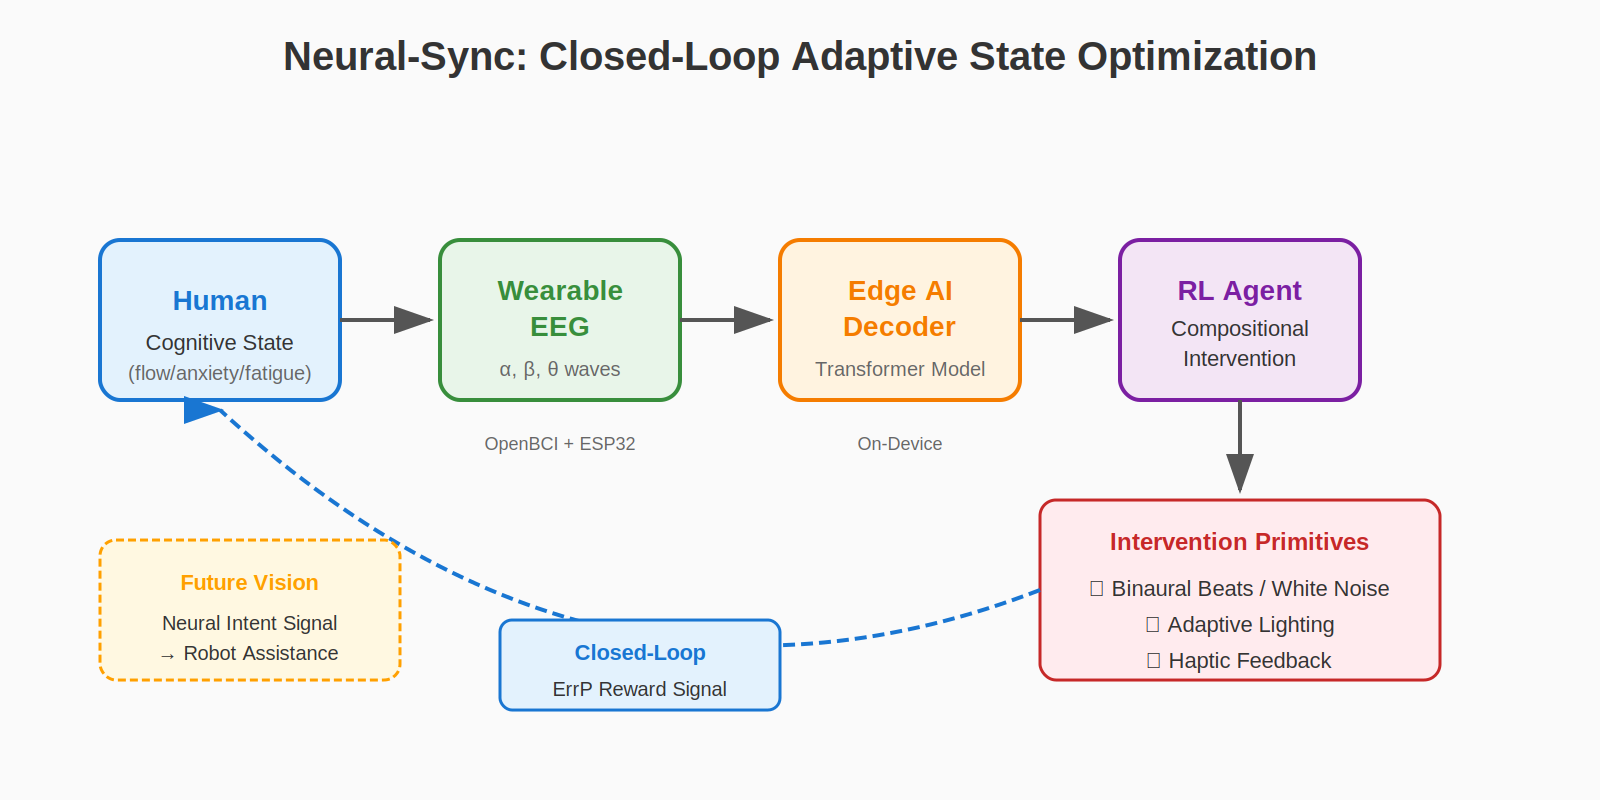
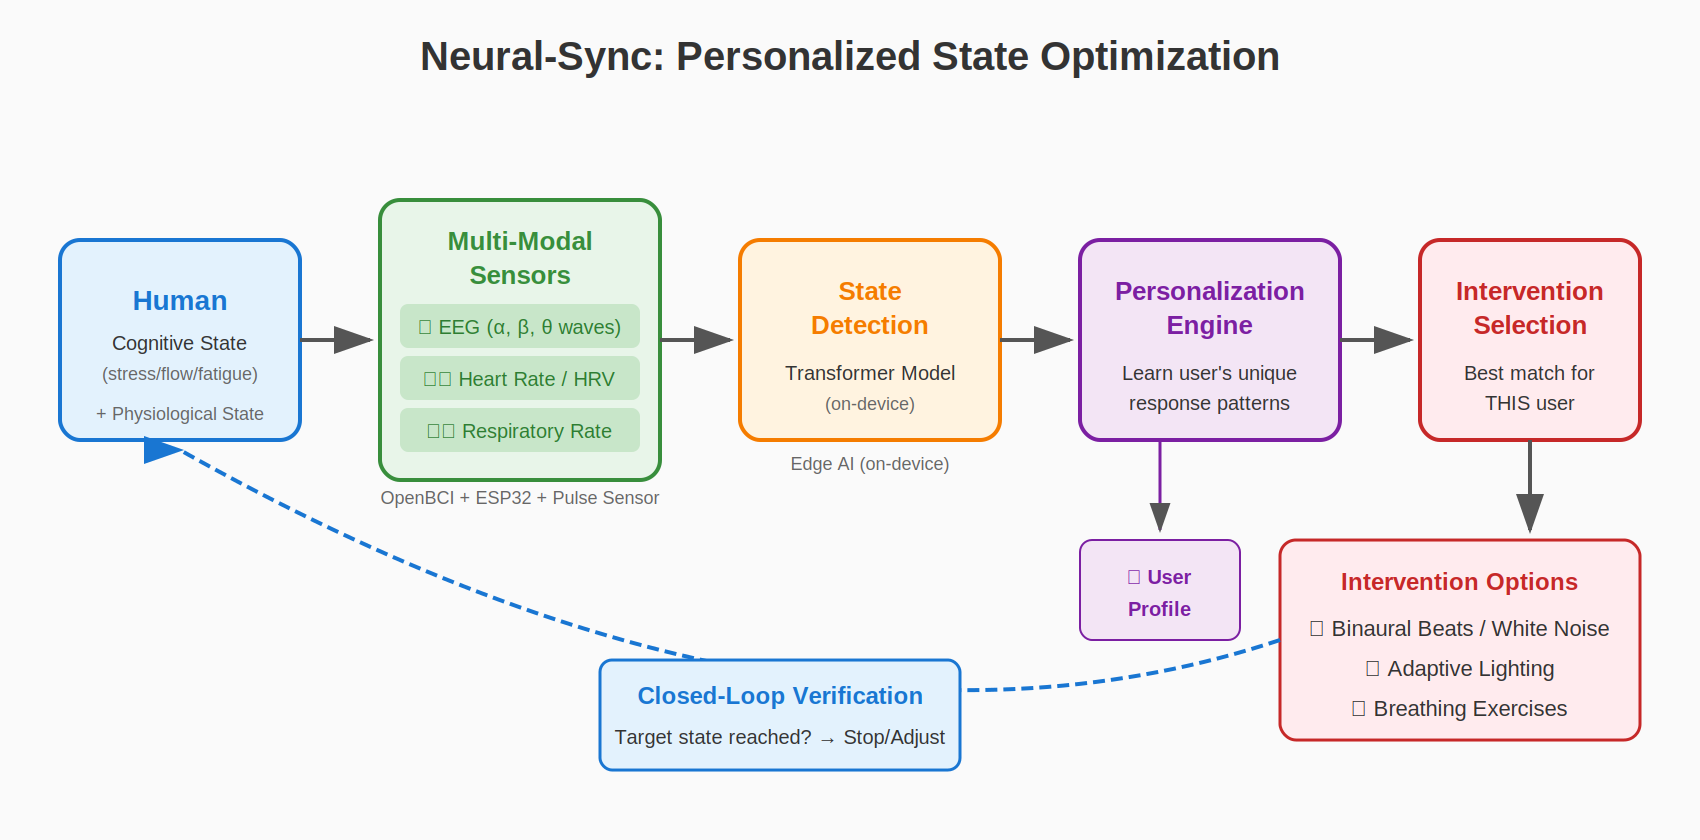
edit image

Changed region(s): [[0.0312, 0.2812, 0.9688, 0.9375], [0.1562, 0.0312, 0.8438, 0.0938], [0.2188, 0.2188, 0.375, 0.2812]]

diff --git a/index.html b/index.html
@@ -163,13 +163,13 @@
                 
                 <!-- Project 1: Neural-Sync -->
                 <h3 style="color: #2874A6; margin-top: 25px;">Project 1: Neural-Sync</h3>
-                  <p style="color: #666; margin-bottom: 15px;"><em>A Closed-Loop Wearable BCI for Adaptive State Optimization</em></p>
+                  <p style="color: #666; margin-bottom: 15px;"><em>A Closed-Loop Wearable System for Personalized State Optimization</em></p>
                   
                   <p style="line-height: 1.6;">
-                    An intelligent wearable system that bridges human neural feedback and environmental intervention. By combining lightweight <b>EEG sensing</b> with <b>Generative AI</b>, the system detects real-time cognitive states (flow, anxiety, fatigue) and provides personalized sensory adjustments — adaptive binaural beats, lighting, and behavioral prompts — to optimize human performance and well-being.
+                    An intelligent wearable system that discovers <b>what works best for each individual</b> to achieve calm, focused mental states. By combining <b>multi-modal physiological sensing</b> (EEG brainwaves, heart rate, respiratory patterns) with <b>adaptive AI</b>, the system monitors the user's state in real-time, tests different interventions (binaural beats, white noise, breathing exercises, lighting), and learns which methods are most effective for each unique user.
                   </p>
                   <p style="line-height: 1.6;">
-                    <b>This project extends my compositional robot learning framework to human cognitive states</b> — treating neural feedback as a high-level signal that could eventually guide robotic assistance.
+                    <b>This project extends my compositional robot learning framework to human cognitive states</b> — treating neural and physiological feedback as high-level signals that could eventually guide robotic assistance.
                   </p>
 
                   <!-- System Architecture Diagram -->
@@ -179,16 +179,17 @@
 
                   <h4 style="color: #555; margin-top: 15px;">Key Research Pillars</h4>
                   <ul style="line-height: 1.8;">
-                    <li><b>Edge-AI Neural Decoding:</b> Developing a Transformer-based lightweight model to classify brainwave patterns (α, β, θ ratios) on-device, minimizing latency for real-time feedback.</li>
-                    <li><b>Compositional Intervention Strategy:</b> Treating interventions (white noise, lighting, haptics) as "primitives" — an RL-agent learns the optimal composition to shift users toward target neural states.</li>
-                    <li><b>Human-in-the-Loop Resilience:</b> Utilizing Error-Related Potentials (ErrP) as direct reward signals to refine the AI's recommendation engine.</li>
+                    <li><b>Multi-Modal State Detection:</b> Fusing EEG brainwave patterns (α, β, θ ratios), heart rate variability, and respiratory frequency to robustly detect cognitive states — stress, fatigue, flow, anxiety.</li>
+                    <li><b>Personalized Intervention Discovery:</b> The system learns each user's unique physiological fingerprint, discovering which interventions work best for <i>them</i> — not a one-size-fits-all approach.</li>
+                    <li><b>Closed-Loop Verification:</b> Continuous multi-modal monitoring confirms when the target state is reached, automatically stopping or adjusting interventions based on real-time feedback.</li>
                   </ul>
 
                   <h4 style="color: #555; margin-top: 15px;">Current Progress: MVP Phase</h4>
                   <ul style="line-height: 1.8;">
-                    <li><b>Hardware:</b> Prototyping with OpenBCI and ESP32 for a 4-channel frontal lobe dry-electrode headband.</li>
+                    <li><b>Hardware:</b> Prototyping with OpenBCI (EEG), ESP32, and pulse/respiration sensors for a compact wearable headband.</li>
                     <li><b>Software:</b> Python-based signal processing backend using MNE, integrated with cross-platform App interface.</li>
                   </ul>
+
                 <!-- Project 2: Books -->
                 <h3 style="color: #2874A6; margin-top: 35px;">Project 2: Books in Progress</h3>
                   <p style="color: #666; margin-bottom: 15px;"><em>Synthesizing knowledge for the next generation of researchers and builders</em></p>
@@ -205,6 +206,7 @@
                   <p style="line-height: 1.6;">
                     An invited book on building AI-powered products, drawing from my experience founding <a href="https://elucigate.com" target="_blank">Elucigate</a>. Covers the full journey from concept to deployment — product design, user experience, technical implementation, and go-to-market strategy for AI applications.
                   </p>
+
                 <!-- Project 3: CS 224R Extended Research -->
                 <h3 style="color: #2874A6; margin-top: 35px;">Project 3: CS 224R Extended Research</h3>
                   <p style="color: #666; margin-bottom: 15px;"><em>Going beyond coursework to master robot learning fundamentals</em></p>
@@ -215,6 +217,7 @@
                   <p style="line-height: 1.6;">
                     <b>Aiming to extend both projects into full research papers</b> — the custom project exploring LLM-guided compositional planning, and the default project investigating diffusion policy improvements for contact-rich manipulation.
                   </p>
+
               </td>
             </tr>
           </tbody></table>
@@ -4695,7 +4698,7 @@ for Topologically Varying Neural Radiance Fields</span>
           <table style="width:100%;border:0px;border-spacing:0px;border-collapse:separate;margin-right:auto;margin-left:auto;"><tbody>
             
            
-            <tr>
+            <!-- <tr>
               <td align="center" style="padding:16px;width:20%;vertical-align:middle">
 						     <div class="colored-box" style="background-color: #fcb97d;">
 								 <h2>Ongoing Projects</h2>
@@ -4706,9 +4709,8 @@ for Topologically Varying Neural Radiance Fields</span>
                 <div>• A framework on learning based rearrangement.</div>
                 <div>• Intelligence Wearable System for Exercises.</div>
               </td>
-            </tr>
-
-
+            </tr> -->
+            
             <!-- <tr>
               <td align="center" style="padding:16px;width:20%;vertical-align:middle">
 						     <div class="colored-box" style="background-color: #aaba9e;">
